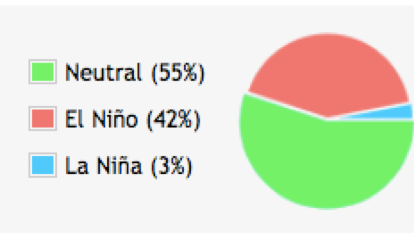
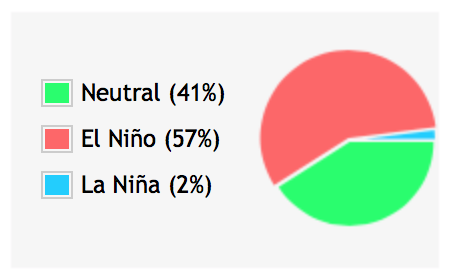
fixed enso image (temporary)

diff --git a/src/app/pages/enso/enso/enso.component.html b/src/app/pages/enso/enso/enso.component.html
@@ -9,8 +9,7 @@
                 <br>
                 <h1>Condições atuais e previsão para os próximos 3 meses</h1>
                 <p style="max-width: 800px;">
-                    <iframe  ngStyle.gt-xs="margin-left: 25px;" style="max-width: 300px; height: auto; float: right; " src="http://cloud.agroclimate.org/tools/deprecated/ensoChart/enso-pie.php" width="250" height="140" frameborder="0" scrolling="no"></iframe>
-                    <!-- <img src="/assets/img/enso/ensochart.png" /> As condições atuais das águas do Oceano Pacífico equatorial são neutras com uma expectativa de aquecimento -->
+                    <img ngStyle.gt-xs="margin-left: 25px;" style="max-width: 300px; height: auto; float: right;" src="/assets/img/enso/ensochart.png" /> As condições atuais das águas do Oceano Pacífico equatorial são neutras com uma expectativa de aquecimento -->
                     durante o segundo semestre de 2018 com a probabilidade de estabelecimento do ciclo El Niño durante a
                     safra de verão 2018/2019. As probabilidades para os próximos 3 meses (julho-agosto-setembro) estão apresentadas
                     no gráfico ao lado para as fases neutra (verde), El Niño (vermelha) e La Niña (azul). A maior probabilidade
